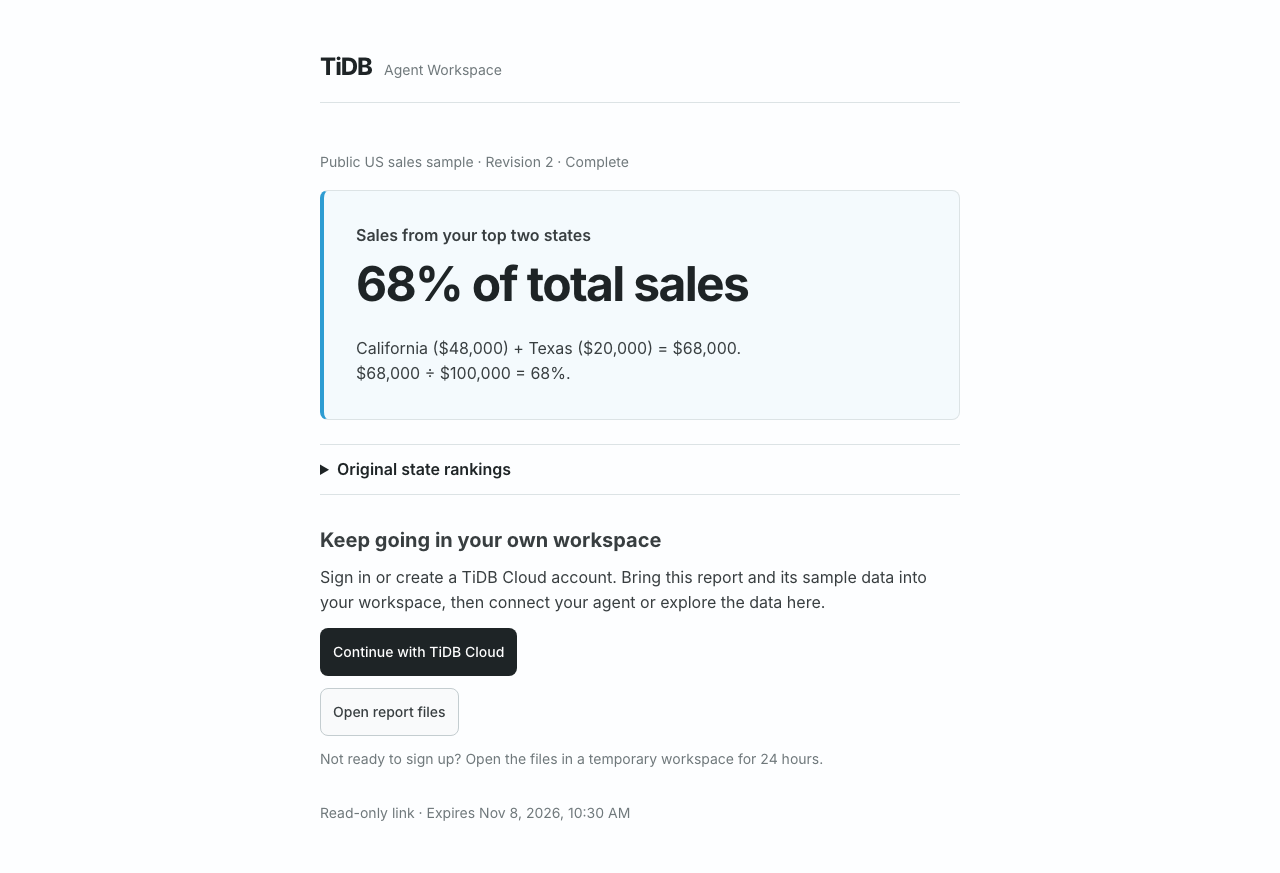
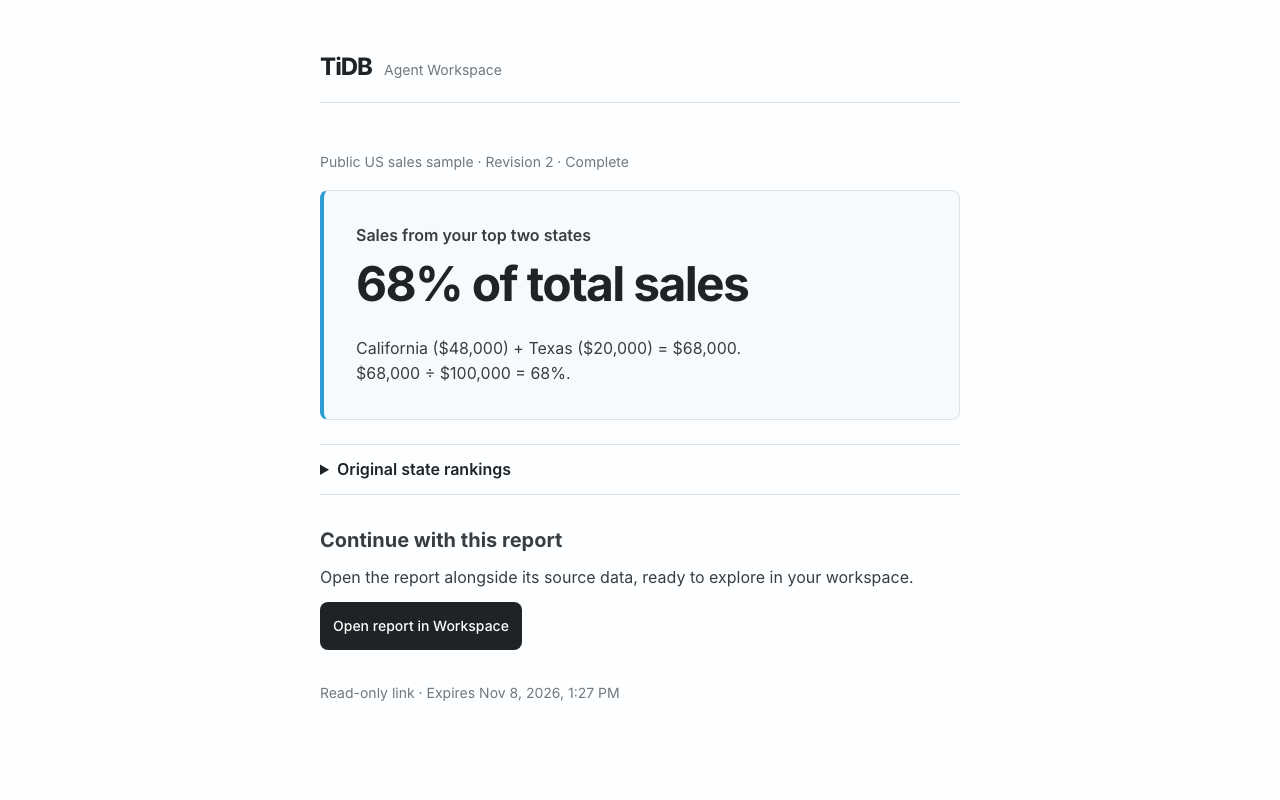
fix(studio): open reports before offering Cloud persistence

diff --git a/src/features/reports/report-files.ts b/src/features/reports/report-files.ts
@@ -1,6 +1,7 @@
 import { workspaceApi, workspaceId } from '../../api/client';
 import { WorkspaceApiError } from '../../api/transport';
 
+const transferLimit = 64 * 1024;
 const storageKey = 'studio:report-files';
[1 lines of base64/hex data omitted]
 export const samplePath = '/US sales sample.csv';
@@ -38,17 +39,74 @@ export async function prepareReportFiles(report: string, revision: 1 | 2, market
     markets,
     expiresAt: Date.now() + 10 * 60_000,
   };
+  storeReportFiles(files);
+}
+
+function storeReportFiles(files: ReportFiles) {
+  const text = JSON.stringify(files);
+  if (text.length > transferLimit)
+    throw new Error(
+      'These files are too large to carry through sign-in. Download them before leaving this workspace.',
+    );
   try {
-    sessionStorage.setItem(storageKey, JSON.stringify(files));
+    sessionStorage.setItem(storageKey, text);
   } catch {
-    throw new Error('Allow site storage in your browser, then try opening the report files again.');
+    throw new Error('Allow site storage in your browser, then try saving the report again.');
   }
+}
+
+/** Read the selected report and its saved source only, before leaving the current owner session. */
+export async function prepareSavedReportFiles(
+  resourceId: string,
+  path: string,
+  sourceWorkspace: string,
+) {
+  const markets = path === '/US sales insights.md';
+  const match = /^\/US sales report - revision ([12])\.md$/.exec(path);
+  if (!markets && !match) throw new Error('Open the sales report to save it to TiDB Cloud.');
+  const revision = match?.[1] === '1' ? 1 : 2;
+  function checkWorkspace() {
+    if (workspaceId !== sourceWorkspace)
+      throw new Error('The workspace changed. Reopen the report and try again.');
+  }
+  checkWorkspace();
+  const paths = [samplePath, path];
+  const before = await Promise.all(paths.map((p) => workspaceApi.fileMetadata(resourceId, p)));
+  checkWorkspace();
+  const contents = await Promise.all(
+    paths.map((p) => workspaceApi.previewFile({ resourceId, path: p })),
+  );
+  checkWorkspace();
+  const after = await Promise.all(paths.map((p) => workspaceApi.fileMetadata(resourceId, p)));
+  checkWorkspace();
+  if (before.some((file, i) => !file.data.version || file.data.version !== after[i].data.version))
+    throw new Error('The report or its data changed while preparing to save. Try again.');
+  const text = contents.map((file, i) => {
+    if (
+      file.unavailableReason ||
+      typeof file.content !== 'string' ||
+      file.size !== before[i].data.size ||
+      new TextEncoder().encode(file.content).length !== file.size
+    )
+      throw new Error(
+        'The complete report and source data could not be read. Keep this workspace open and try again.',
+      );
+    return file.content;
+  });
+  if (!text[1]) throw new Error('The report is empty. Save your report before continuing.');
+  storeReportFiles({
+    sample: text[0],
+    report: text[1],
+    revision,
+    markets,
+    expiresAt: Date.now() + 10 * 60_000,
+  });
 }
 
 export function readReportFiles(): ReportFiles | null {
   try {
     const text = sessionStorage.getItem(storageKey);
-    if (!text || text.length > 64 * 1024) return null;
+    if (!text || text.length > transferLimit) return null;
     const value: unknown = JSON.parse(text);
     if (
       !value ||

diff --git a/src/features/reports/TemporaryReportNotice.tsx b/src/features/reports/TemporaryReportNotice.tsx
@@ -1,0 +1,62 @@
+import { Button, Group, Paper, Stack, Text } from '@tidbcloud/uikit';
+import { useState } from 'react';
+import { reportAccountHash } from '../navigation/upload-entry';
+import { prepareSavedReportFiles } from './report-files';
+
+export function TemporaryReportNotice({
+  resourceId,
+  workspaceId,
+  reportPath,
+  disabled,
+  beforeLeave,
+}: {
+  resourceId: string;
+  workspaceId: string;
+  reportPath: string;
+  disabled: boolean;
+  beforeLeave: (action: () => void) => void;
+}) {
+  const [busy, setBusy] = useState(false);
+  const [error, setError] = useState('');
+  async function save() {
+    setBusy(true);
+    setError('');
+    try {
+      await prepareSavedReportFiles(resourceId, reportPath, workspaceId);
+      const target = new URL(location.href);
+      target.hash = reportAccountHash;
+      // Re-enter bootstrap so an existing Guest takes the account sign-in path.
+      history.replaceState(null, '', target);
+      location.reload();
+    } catch (cause) {
+      setError(cause instanceof Error ? cause.message : 'Could not prepare your files. Try again.');
+      setBusy(false);
+    }
+  }
+  return (
+    <Paper component="section" withBorder p="md" mb="lg" aria-labelledby="temporary-report">
+      <Stack gap="xs">
+        <Group justify="space-between" align="center">
+          <div>
+            <Text id="temporary-report" fw={600}>
+              Temporary workspace · 48-hour trial
+            </Text>
+            <Text size="sm">
+              Keep this report and its data beyond the trial by saving them to your TiDB Cloud
+              account.
+            </Text>
+          </div>
+          <Button
+            variant="default"
+            loading={busy}
+            disabled={disabled}
+            onClick={() => beforeLeave(() => void save())}
+          >
+            Save to TiDB Cloud
+          </Button>
+        </Group>
+        {error && <Text role="alert">{error}</Text>}
+      </Stack>
+    </Paper>
+  );
+}

diff --git a/src/features/reports/TrialPrompt.tsx b/src/features/reports/TrialPrompt.tsx
@@ -15,7 +15,7 @@ export function TrialPrompt({
   const followUp = leadingState !== undefined;
   const compact = followUp || sampleSales !== undefined;
   const prompt = sampleSales
-    ? `Follow the current TiDB Agent Workspace skill at ${skillUrl} to continue this public sales report. What share of total sales comes from the top two states? Use these figures from the report: ${sampleSales}. Use the existing sample and report. Reopen it with the official helper's start command in this project and return its verified insightsUrl as a clickable online report, along with the local Markdown. If the helper lacks insightsUrl, update it once with the official installer and resume. Show the calculation, then direct me to Continue with TiDB Cloud on the report to sign in or create an account and bring these files into my own workspace. Reply in the language we have been using. In a new chat, use ${navigator.language}.`
+    ? `Follow the current TiDB Agent Workspace skill at ${skillUrl} to continue this public sales report. What share of total sales comes from the top two states? Use these figures from the report: ${sampleSales}. Use the existing sample and report. Reopen it with the official helper's start command in this project and return its verified insightsUrl as a clickable online report, along with the local Markdown. If the helper lacks insightsUrl, update it once with the official installer and resume. Show the calculation, then direct me to Open report in Workspace. I can read and explore it immediately; the temporary workspace offers Save to TiDB Cloud when I want to keep the report and its data. Reply in the language we have been using. In a new chat, use ${navigator.language}.`
     : followUp
       ? `Follow ${skillUrl} in the local project that created my TiDB Agent Workspace sales report. Add the top product by sales in ${leadingState} and its share of state sales to the same report, then give me the updated Studio link.`
       : trialInstruction;

diff --git a/src/features/reports/OpenReportFiles.tsx b/src/features/reports/OpenReportFiles.tsx
@@ -1,10 +1,6 @@
 import { useState } from 'react';
 import { Button, Stack, Text } from '@tidbcloud/uikit';
-import {
-  rememberWorkspaceFilesEntry,
-  reportFilesHash,
-  reportAccountHash,
-} from '../navigation/upload-entry';
+import { rememberWorkspaceFilesEntry, reportFilesHash } from '../navigation/upload-entry';
 import { reportMarkdown } from './report-insights';
 import type { SalesReport } from './TrialReportContent';
 import { prepareReportFiles } from './report-files';
@@ -12,11 +8,9 @@ import { prepareReportFiles } from './report-files';
 export function OpenReportFiles({
   report,
   markets = false,
-  account = false,
 }: {
   report: SalesReport;
   markets?: boolean;
-  account?: boolean;
 }) {
   const [busy, setBusy] = useState(false);
   const [error, setError] = useState('');
@@ -25,11 +19,8 @@ export function OpenReportFiles({
     setError('');
     try {
       await prepareReportFiles(reportMarkdown(report, markets), report.revision, markets);
-      if (!account) rememberWorkspaceFilesEntry();
-      location.assign(
-        location.pathname.replace(/\/report\/?$/, '/') +
-          (account ? reportAccountHash : reportFilesHash),
-      );
+      rememberWorkspaceFilesEntry();
+      location.assign(location.pathname.replace(/\/report\/?$/, '/') + reportFilesHash);
     } catch (cause) {
       setError(
         cause instanceof Error
@@ -41,13 +32,8 @@ export function OpenReportFiles({
   }
   return (
     <Stack gap="xs">
-      <Button
-        variant={account ? 'filled' : 'default'}
-        w="fit-content"
-        loading={busy}
-        onClick={() => void open()}
-      >
-        {account ? 'Continue with TiDB Cloud' : 'Open report files'}
+      <Button variant="filled" w="fit-content" loading={busy} onClick={() => void open()}>
+        Open report in Workspace
       </Button>
       {error && <Text role="alert">{error}</Text>}
     </Stack>

diff --git a/src/features/reports/TrialReportContent.tsx b/src/features/reports/TrialReportContent.tsx
@@ -1,4 +1,4 @@
-import { Paper, Stack, Text, Title } from '@tidbcloud/uikit';
+import { Paper, Text, Title } from '@tidbcloud/uikit';
 import { OpenReportFiles } from './OpenReportFiles';
 import { TrialPrompt } from './TrialPrompt';
 import { marketInsight } from './report-insights';
@@ -128,27 +128,12 @@ export function TrialReportContent({ report }: { report: SalesReport }) {
           </details>
           <section aria-labelledby="own-sales">
             <Title order={2} id="own-sales">
-              Keep going in your own workspace
+              Continue with this report
             </Title>
             <Text mb="sm">
-              Sign in or create a TiDB Cloud account. Bring this report and its sample data into
-              your workspace, then connect your agent or explore the data here.
+              Open the report alongside its source data, ready to explore in your workspace.
             </Text>
-            <Stack gap="sm" align="flex-start">
-              <OpenReportFiles report={report} markets={markets} account />
-              <OpenReportFiles report={report} markets={markets} />
-              <Text size="sm" c="var(--text-secondary)">
-                Not ready to sign up? Open the files in a temporary workspace for 48 hours.
-              </Text>
-              {!markets && (
-                <TrialPrompt
-                  sampleSales={`${report.states
-                    .slice(0, 2)
-                    .map(([state, amount]) => `${state} ${money.format(amount)}`)
-                    .join(', ')} out of ${money.format(total)} across all states`}
-                />
-              )}
-            </Stack>
+            <OpenReportFiles report={report} markets={markets} />
           </section>
         </>
       ) : (

diff --git a/src/App.tsx b/src/App.tsx
@@ -1,4 +1,5 @@
 import { ReportFilesEntry } from './features/reports/ReportFilesEntry';
+import { TemporaryReportNotice } from './features/reports/TemporaryReportNotice';
 import { ReportNextSteps } from './features/reports/ReportNextSteps';
 import { ApiDocumentation } from './features/api/ApiDocumentation';
 import { capturePage, startAnalytics } from './features/analytics/capture';
@@ -1381,7 +1382,16 @@ function FileWorkspace({
   }
   return (
     <>
-      {reportWelcome && (
+      {reportWelcome && isGuest && initialLocation && (
+        <TemporaryReportNotice
+          resourceId={resource.id}
+          workspaceId={data.workspace.id}
+          reportPath={initialLocation.path}
+          disabled={busy || analysisBusy || previewLoading}
+          beforeLeave={requestPreviewChange}
+        />
+      )}
+      {reportWelcome && !isGuest && (
         <ReportNextSteps
           resource={resource}
           workspaceId={data.workspace.id}
@@ -1600,7 +1610,12 @@ function FileWorkspace({
               databaseCreation={{ data, refresh, notify, isGuest }}
               initialView={previewView}
               onViewChange={(view) =>
-                history.replaceState(null, '', fileHash(editing.resourceId, editing.path, view))
+                history.replaceState(
+                  null,
+                  '',
+                  fileHash(editing.resourceId, editing.path, view) +
+                    (reportWelcome && initialLocation?.path === editing.path ? '&from=report' : ''),
+                )
               }
               content={content}
               savedContent={editing.content || ''}

diff --git a/src/features/reports/ReportFilesEntry.tsx b/src/features/reports/ReportFilesEntry.tsx
@@ -57,7 +57,7 @@ export function ReportFilesEntry({
   if (!files)
     return (
       <Alert title="Open the report to continue">
-        Return to the report and choose “Open report files” again.
+        Return to the report and choose “Open report in Workspace” again.
       </Alert>
     );
   return (

diff --git a/console/public/skills/drive9-workspace/install.py b/console/public/skills/drive9-workspace/install.py
@@ -96,7 +96,7 @@ def install_assets(skills, runtime):
 
 
 # fmt: off
[2 lines of base64/hex data omitted]
 # fmt: on
 
 if __name__ == "__main__":

diff --git a/console/public/skills/drive9-workspace/SKILL.md b/console/public/skills/drive9-workspace/SKILL.md
@@ -18,8 +18,8 @@ For the Studio free-trial prompt or a request to continue its sales report, use 
 **Saved report (`synced`).** Lead with the finding and its calculation in one sentence. Give the clickable `studioUrl` (“View report in Studio”) and a single “Local Markdown” link using the absolute `report` path. Describe the Studio link as read-only to anyone with the link until the original expiry in the user's timezone. Use descriptive labels so internal paths stay out of the reply.
 
 - **Version 1:** End with one question the user can accept right here, naming the leading state: “Want me to add California’s top product and its share of the state’s sales to this report?” Wait for their answer. A “yes”, “好” or equivalent in context means run `products` in this same project. No copy/paste, tool switch or repeated setup is needed.
-- **Version 2 (including reopening a completed report):** Give the verified product, sales and share. On an update, tell the user the finding is now in the same report and return the original Studio link. On a reopen, describe what is already there. Direct them to **Continue with TiDB Cloud** on the report: sign in or create an account to open their own Workspace with the report and sample already saved. They can then choose **Connect my agent** or **Explore sample data**. Offer the in-chat sample comparison only when they want more analysis; avoid repeating a completed question.
-- **Top-two-states question, including Copy next question:** Run `start` in the same project to reopen the verified report. Give the calculation, the returned `insightsUrl` labeled “View this analysis in Studio”, and the local Markdown link. If `insightsUrl` is missing, update the helper once with the official installer and repeat `start`. This link shows the comparison computed from the same saved state totals; it does not create another report or extend access. End with one concrete next step: “Open the report and choose Continue with TiDB Cloud to sign in or create an account. Your report and sample data will be ready in your workspace; then choose Connect my agent to keep working.” Do not end with only a local file or another open-ended question. The report can still be read without login; account continuation is the user's choice.
+- **Version 2 (including reopening a completed report):** Give the verified product, sales and share. On an update, tell the user the finding is now in the same report and return the original Studio link. On a reopen, describe what is already there. Direct them to **Open report in Workspace**. It opens the report and saved sample immediately, using their current Workspace or a temporary one. Inside a temporary Workspace, **Save to TiDB Cloud** offers sign-in or signup when they want to keep these files. After saving to their account they can choose **Connect my agent** or **Explore sample data**. Offer the in-chat sample comparison only when they want more analysis; avoid repeating a completed question.
+- **Top-two-states question, including Copy next question:** Run `start` in the same project to reopen the verified report. Give the calculation, the returned `insightsUrl` labeled “View this analysis in Studio”, and the local Markdown link. If `insightsUrl` is missing, update the helper once with the official installer and repeat `start`. This link shows the comparison computed from the same saved state totals; it does not create another report or extend access. End with one concrete next step: “Choose Open report in Workspace to read and explore it. If you want to keep it beyond the temporary session, choose Save to TiDB Cloud inside the workspace.” Do not end with only a local file or another open-ended question. The report can still be read without login; account continuation is the user's choice.
 - **Switching agents:** Only when the user wants a handoff, give one portable prompt for another local agent in the same project: “Follow https://drive9.ai/studio/skills/drive9-workspace/SKILL.md to continue my TiDB Agent Workspace sales report in this project and add the top product in the leading state.” The first-version Studio report also offers a copyable follow-up.
 - If an older helper returns `synced` without `studioUrl`, update it once with the official installer and repeat the same command in the same project. Only show a Studio link returned by the helper.
 

diff --git a/docs/decisions/0053-trial-report-view.md b/docs/decisions/0053-trial-report-view.md
@@ -6,6 +6,10 @@ The URL carries the grant in its fragment. The isolated viewer passes it only in
 
 The public regional OpenAPI documents the wire format. Private Workspace publication, owner claims and spending need separate authorization.
 
-Choosing **Open report files** copies the displayed public analysis and verified public CSV through existing conditional file APIs into the reader's own authenticated Workspace or a new browser Guest. The transfer contains only public file content, with a short tab-local deadline. The read grant stays in the original report history entry. Identical saved files are reused and edited destinations are preserved. Import completion opens the saved Markdown alongside its source.
+Choosing **Open report in Workspace** copies the displayed public analysis and verified public CSV through existing conditional file APIs into the reader's own authenticated Workspace or a new browser Guest. This initial transfer contains only public file content, with a short tab-local deadline. The read grant stays in the original report history entry. Identical saved files are reused and edited destinations are preserved. Import completion opens the saved Markdown alongside its source.
 
-The helper's `insightsUrl` selects `?view=markets` with the same grant and deadline. This presentation computes the top-two-state share from the saved state totals; it is not another stored revision. **Continue with TiDB Cloud** carries the public files through the existing login/signup flow into the authenticated reader's Workspace. An existing Guest is not an account destination. This copies public content, without claiming a trial identity or migrating private data. The destination opens the report and offers **Connect my agent** and **Explore sample data**. The temporary-workspace option remains available.
+The helper's `insightsUrl` selects `?view=markets` with the same grant and deadline. This presentation computes the top-two-state share from the saved state totals; it is not another stored revision.
+
+The completed viewer has one continuation: open the report in Workspace. A Guest sees the 48-hour temporary-session notice there, with **Save to TiDB Cloud**. This explicit action reads only the displayed sales report and its saved source CSV through the current Owner session, including saved edits. It verifies complete text and stable file versions before placing the two contents in a bounded, ten-minute tab-local transfer. Unsaved changes retain the existing save/discard guard. Failures keep the Guest open. The account sign-in return imports through the same conditional APIs, preserves conflicting destination files, and opens the report with **Connect my agent** and **Explore sample data**.
+
+No trial identity, Guest session, Workspace Key, or read grant is transferred. This is an explicit two-file copy, not a Workspace claim or general private-data migration; the original session and report-link deadlines do not change. The transfer is cleared on completed import. Existing account readers open their Workspace directly without a redundant sign-in choice.

diff --git a/docs/standards/product-experience.md b/docs/standards/product-experience.md
@@ -92,7 +92,7 @@ who chooses that path. When a follow-up changes the question, lead the original 
 and the data that explains it. Keep the earlier analysis available as context.
 For a private CSV, lead with the agent uploading the explicitly selected file once and continuing from its saved remote version in the same project. Keep private results separate from public sample links. A copied sample question should yield a named finding even in an empty project. An attachment or unambiguous filename is sufficient to select private data; the agent resolves the path and explains file limits only when they affect that selection.
 When the agent needs a source and the user is stuck, offer the public sample and their CSV as actionable choices in chat. Use the host’s picker or numbered replies. Honor a selection directly and resume available data without another source-selection step.
-Opening files from a completed sample saves the verified public CSV and the displayed report into the reader’s own or temporary workspace, then opens the report alongside its source. Re-entry reuses identical files and conditional creation preserves edits. Further analysis starts with the existing sample; selecting private data is an optional next task. A completed agent follow-up returns an online result and a concrete continuation. Lead with TiDB Cloud sign-in/signup on the report, preserve the public result and source through login, and open them in the account Workspace with an actionable next step. A local file link alone does not complete this journey.
+Opening files from a completed sample saves the verified public CSV and the displayed report into the reader’s own or temporary workspace, then opens the report alongside its source. Re-entry reuses identical files and conditional creation preserves edits. Further analysis starts with the existing sample; selecting private data is an optional next task. A completed agent follow-up returns an online result and a concrete continuation. Give the completed report one primary continuation: **Open report in Workspace**, with the result and source already present. Explain the temporary 48-hour session inside the Guest Workspace and offer **Save to TiDB Cloud** there. Carry the currently saved report and source through sign-in/signup into the account Workspace with an actionable next step; preserve unsaved-change guards and never ask users to upload the same files again. A local file link alone does not complete this journey.
 Verify the click from a signed-out browser as well as a returning session. Viewing the report alone starts no workspace.
 
 **People and agent onboarding (owner direction, 2026-11-03):** a Guest can explore the US sales
